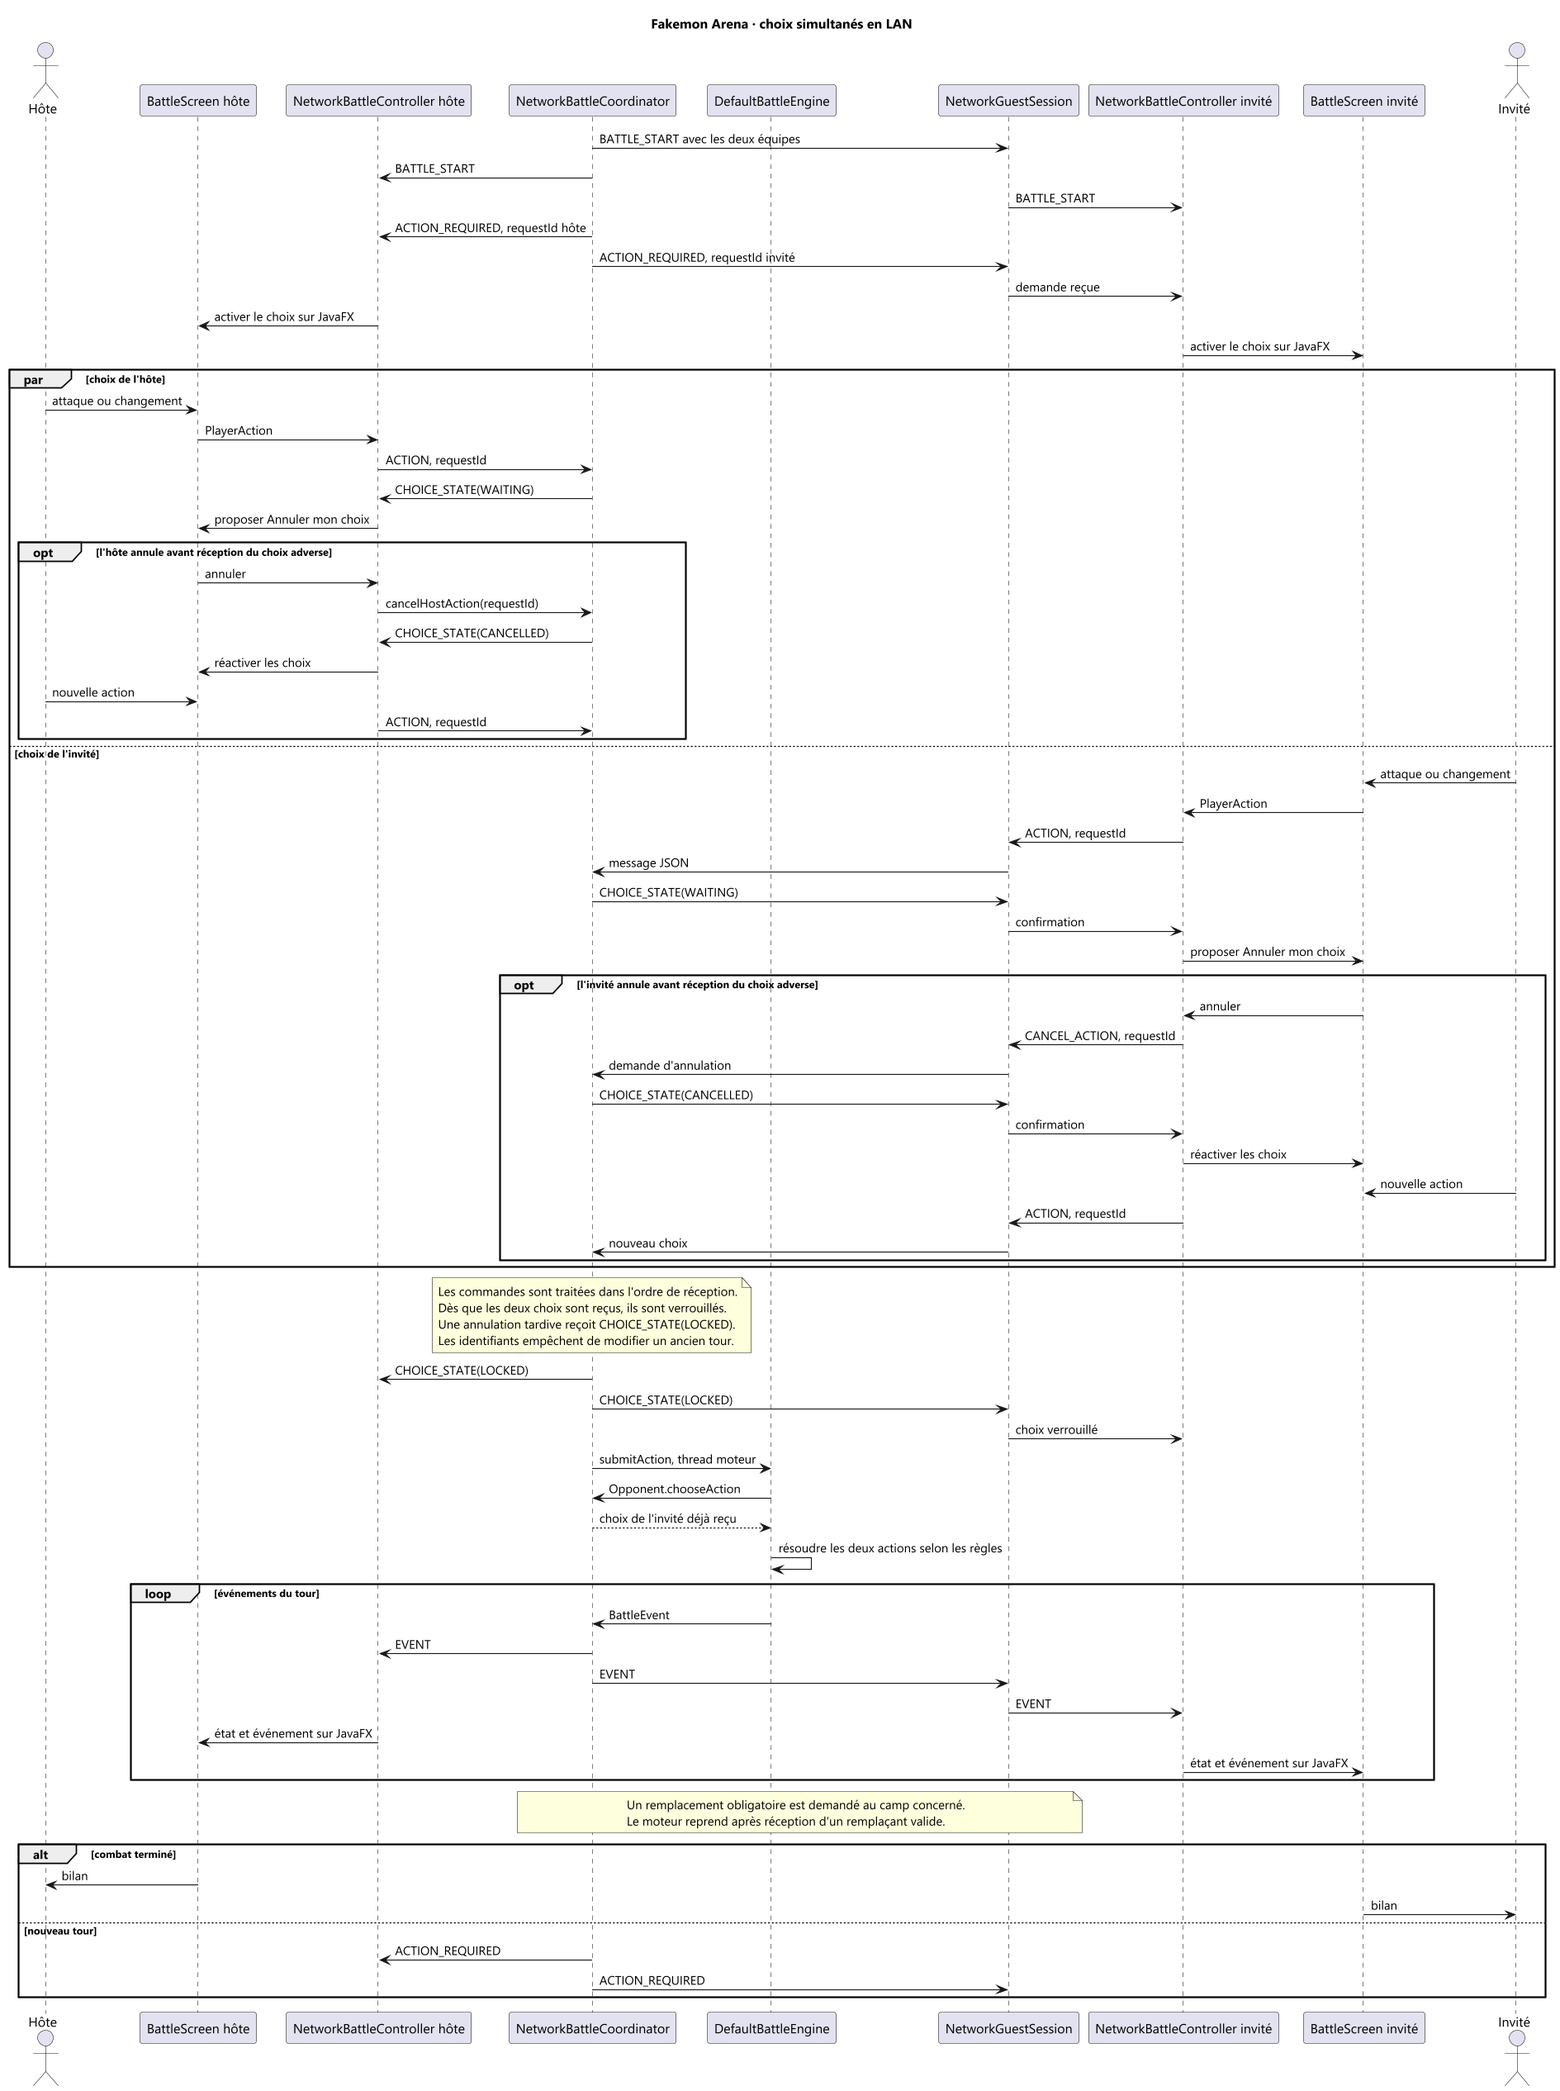
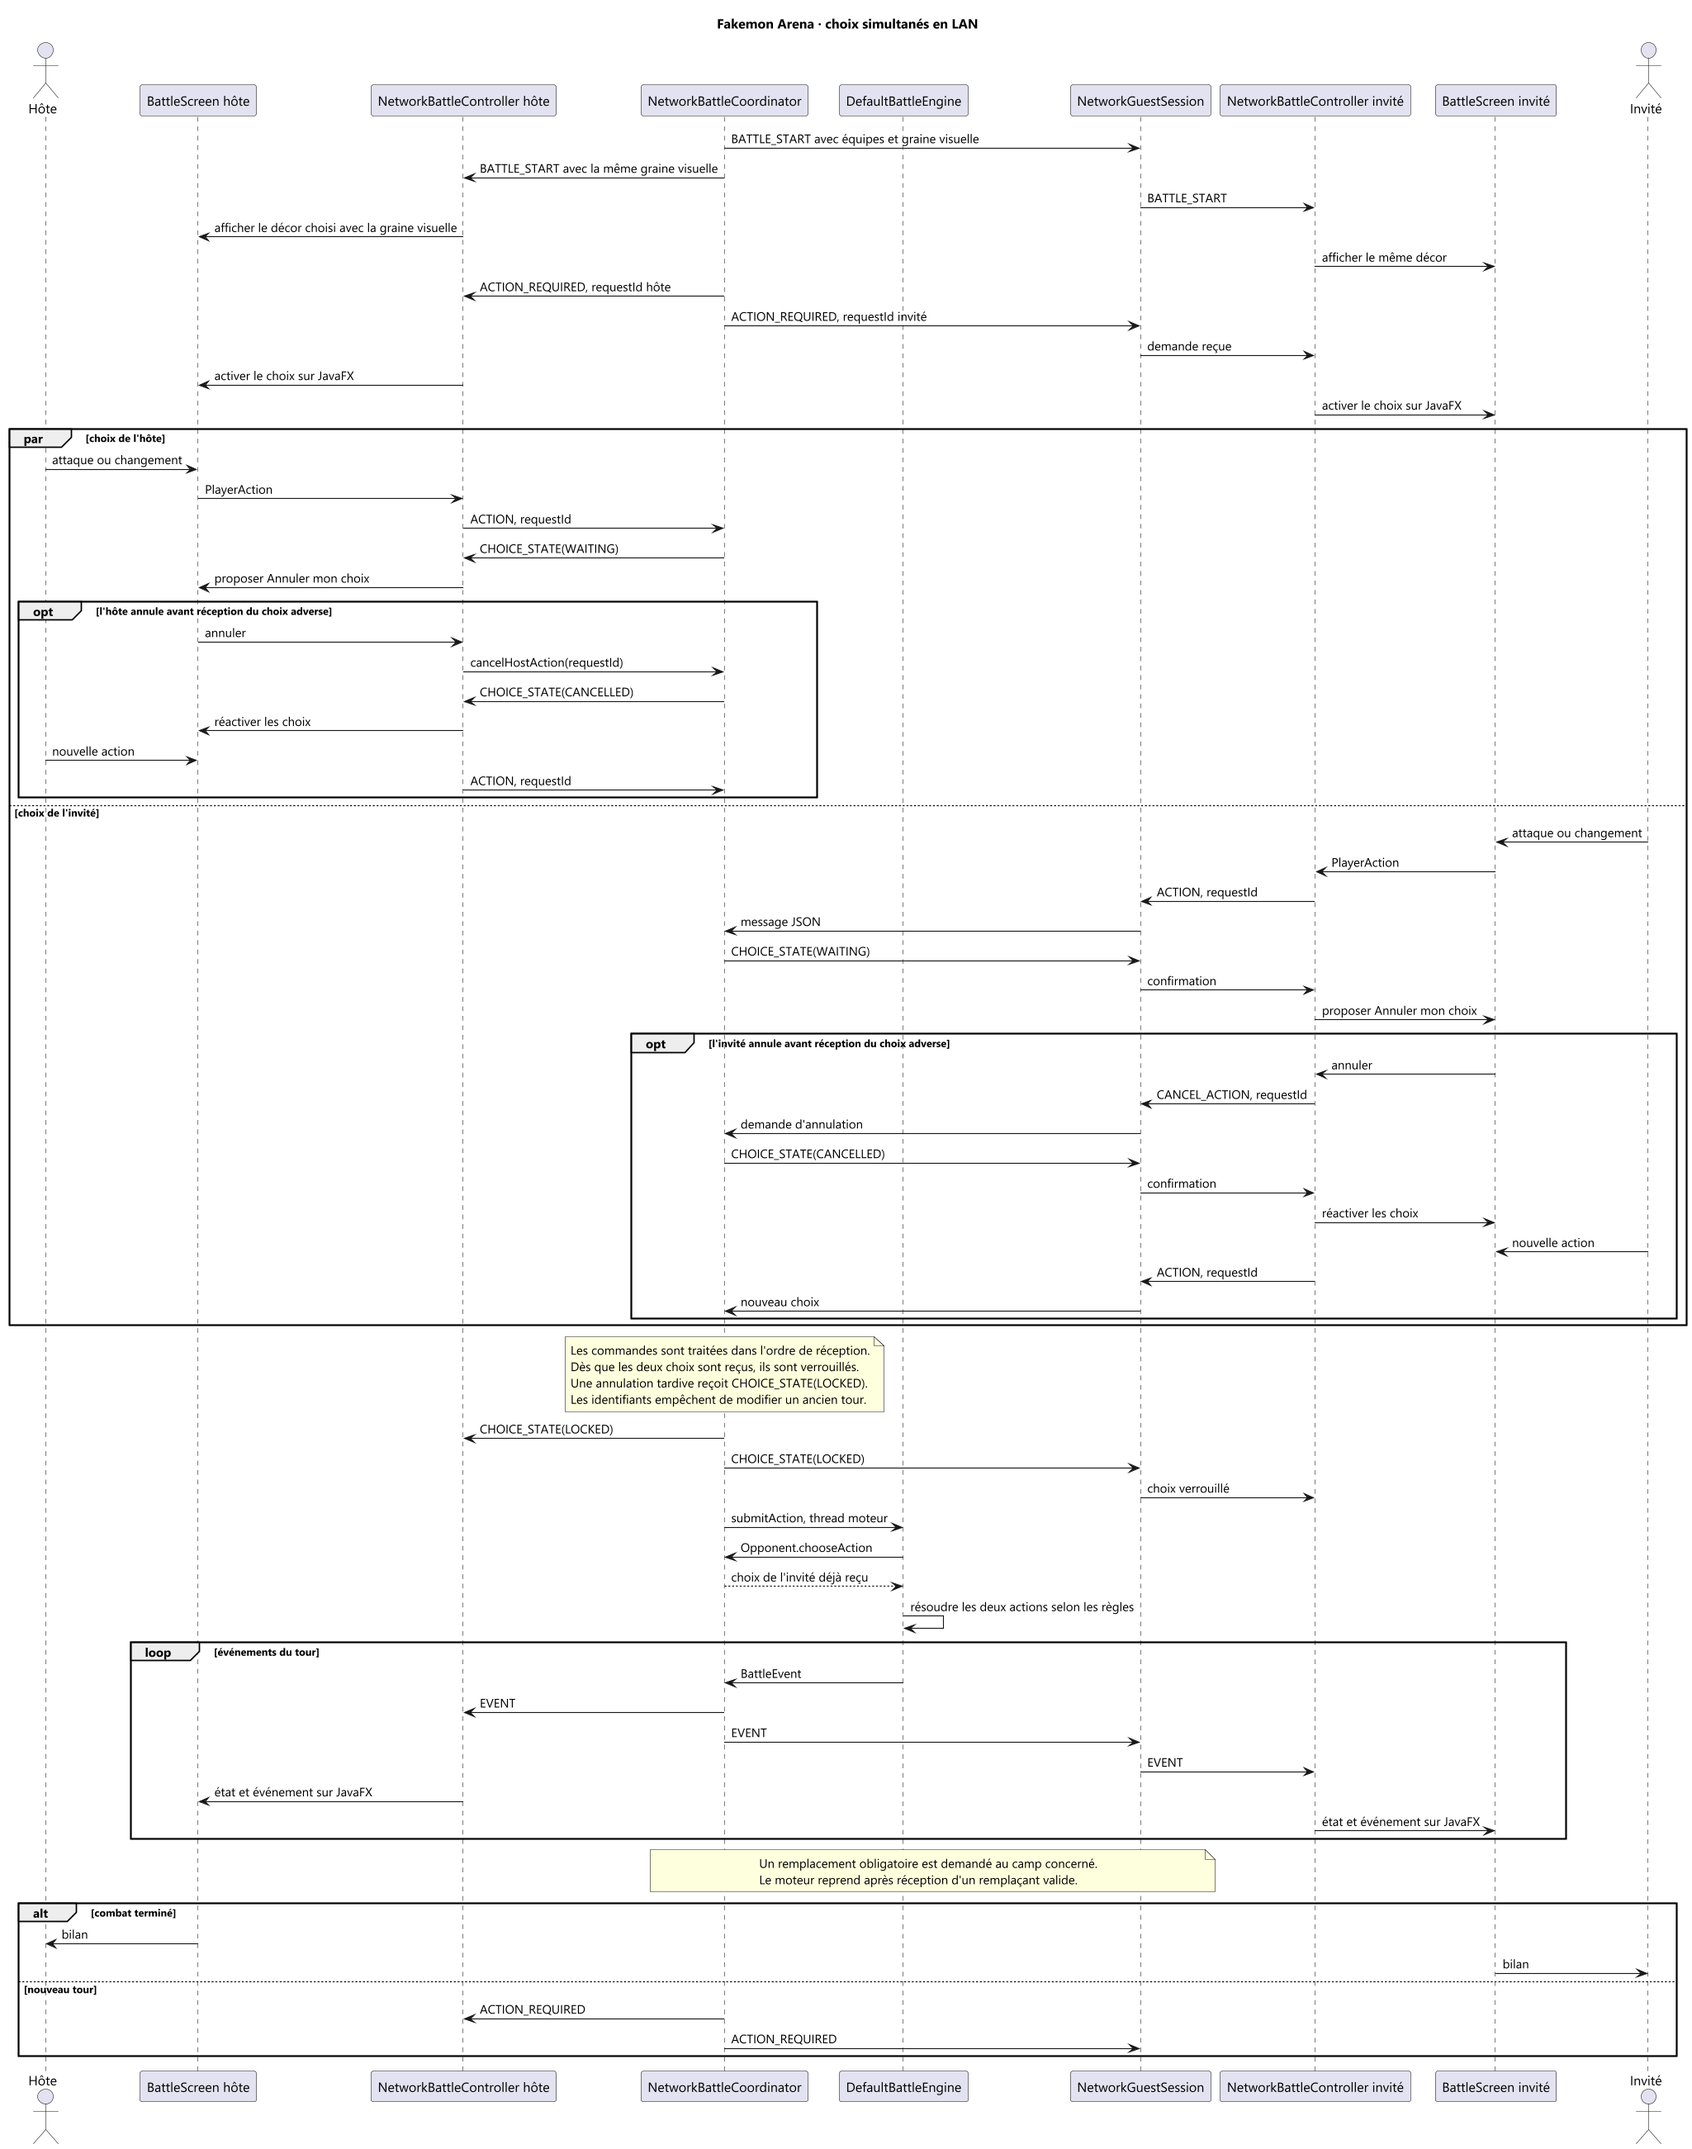
feat: intègre les décors variés aux combats (#72) (#86)
Refs #72

Ajoute quatre paysages au décor d’origine. Le paysage est choisi au
début du combat et reste affiché pendant toute la partie. En LAN, les
deux joueurs voient le même décor.

Les tests couvrent le chargement des cinq paysages, la stabilité du
décor à l’écran et la synchronisation en LAN.

diff --git a/src/main/java/fr/epitech/fakemon/ui/BattleScreen.java b/src/main/java/fr/epitech/fakemon/ui/BattleScreen.java
@@ -1,5 +1,8 @@
 package fr.epitech.fakemon.ui;
 
+import java.net.URL;
+import java.util.concurrent.ThreadLocalRandom;
+
 import fr.epitech.fakemon.core.api.BattleEndedEvent;
 import fr.epitech.fakemon.core.api.BattleEngine;
 import fr.epitech.fakemon.core.api.BattleEvent;
@@ -101,9 +104,9 @@ public final class BattleScreen extends BorderPane implements BattleListener {
         this.menu = menu;
         music = new BattleMusic(scenes.musicVolumePercent());
         setPadding(new Insets(12));
-        var background = BattleScreen.class.getResource("/backgrounds/battle-grassland.png");
-        arena.setStyle("-fx-background-image: url('" + background.toExternalForm()
-                + "'); -fx-background-size: cover; -fx-background-position: center;");
+        if (network == null) {
+            setArenaBackground(BattleAssets.randomBackground(ThreadLocalRandom.current()));
+        }
         setFocusTraversable(true);
         MenuSounds.action(pauseButton, MenuSounds.Sound.OPEN);
         MenuSounds.action(teamButton, MenuSounds.Sound.OPEN);
@@ -171,6 +174,11 @@ public final class BattleScreen extends BorderPane implements BattleListener {
             network.start(this::onEvent, this::networkChoiceRequired, this::networkChoiceStateChanged,
                     this::networkFailure);
         }
+    }
+
+    private void setArenaBackground(URL background) {
+        arena.setStyle("-fx-background-image: url('" + background.toExternalForm()
+                + "'); -fx-background-size: cover; -fx-background-position: center;");
     }
 
     private BattleState state() {
@@ -290,6 +298,9 @@ public final class BattleScreen extends BorderPane implements BattleListener {
     public void onEvent(BattleEvent event) {
         if (closed) {
             return;
+        }
+        if (network != null && arena.getStyle().isEmpty()) {
+            setArenaBackground(network.getBackground());
         }
         if (event instanceof FakemonEnteredEvent entered) {
             Fakemon mon = entered.getFakemon();

diff --git a/src/main/java/fr/epitech/fakemon/ui/NetworkBattleController.java b/src/main/java/fr/epitech/fakemon/ui/NetworkBattleController.java
@@ -17,8 +17,10 @@ import fr.epitech.fakemon.net.NetworkTeamCodec;
 import fr.epitech.fakemon.data.JsonSpeciesRepository;
 import fr.epitech.fakemon.data.SpeciesFactory;
 import java.io.IOException;
+import java.net.URL;
 import java.util.Random;
 import java.util.concurrent.CompletableFuture;
+import java.util.concurrent.ThreadLocalRandom;
 import java.util.function.Consumer;
 import javafx.application.Platform;
 
@@ -28,6 +30,7 @@ final class NetworkBattleController implements AutoCloseable {
     private final NetworkGuestSession guest;
     private final Side localSide;
     private NetworkBattleState state;
+    private URL background;
     private NetworkEventCodec events;
     private Consumer<BattleEvent> onEvent;
     private Consumer<Boolean> onChoice;
@@ -68,6 +71,11 @@ final class NetworkBattleController implements AutoCloseable {
 
     BattleState getState() {
         return state;
+    }
+
+    /** Donne le décor choisi à partir de la graine visuelle partagée par l'hôte. */
+    URL getBackground() {
+        return background;
     }
 
     /** Rouvre la préparation avec le même adversaire lorsque l'ancien lecteur a libéré la connexion. */
@@ -163,6 +171,9 @@ final class NetworkBattleController implements AutoCloseable {
                 if (state != null) {
                     throw new IllegalStateException("Le combat a déjà été initialisé.");
                 }
+                var seed = message.getPayload().get("visualSeed");
+                background = BattleAssets.randomBackground(seed == null
+                        ? ThreadLocalRandom.current() : new Random(seed.getAsLong()));
                 NetworkTeamCodec teams = new NetworkTeamCodec();
                 var hostTeam = teams.decode(new NetworkMessage("TEAM",
                         message.getPayload().getAsJsonObject("hostTeam")));

diff --git a/src/main/java/fr/epitech/fakemon/ui/BattleAssets.java b/src/main/java/fr/epitech/fakemon/ui/BattleAssets.java
@@ -1,14 +1,36 @@
 package fr.epitech.fakemon.ui;
 
+import java.net.URL;
 import java.nio.file.Path;
+import java.util.List;
+import java.util.Objects;
+import java.util.random.RandomGenerator;
 
 import fr.epitech.fakemon.core.model.Species;
 import javafx.scene.image.Image;
 import javafx.scene.image.ImageView;
 
-/** Charge les sprites du catalogue embarqué ou du dossier utilisateur. */
+/** Résout les décors et les médias du catalogue embarqué ou du dossier utilisateur. */
 final class BattleAssets {
+    private static final List<String> BACKGROUNDS = List.of(
+            "/backgrounds/battle-grassland.png",
+            "/backgrounds/battle-forest.png",
+            "/backgrounds/battle-beach.png",
+            "/backgrounds/battle-desert.png",
+            "/backgrounds/battle-snow.png");
+
     private BattleAssets() {}
+
+    /**
+     * Tire un décor parmi les cinq paysages embarqués, une fois au début du combat.
+     *
+     * @param random source de hasard visuel, distincte de celle du moteur
+     * @return l'adresse du décor choisi dans les ressources du jeu
+     */
+    static URL randomBackground(RandomGenerator random) {
+        String path = BACKGROUNDS.get(random.nextInt(BACKGROUNDS.size()));
+        return Objects.requireNonNull(BattleAssets.class.getResource(path), "Décor absent : " + path);
+    }
 
     static Path userFolder() {
         return Path.of(System.getProperty("user.home"), ".fakemon-arena");

diff --git a/src/main/java/fr/epitech/fakemon/net/NetworkBattleCoordinator.java b/src/main/java/fr/epitech/fakemon/net/NetworkBattleCoordinator.java
@@ -25,6 +25,7 @@ import java.util.concurrent.CompletableFuture;
 import java.util.concurrent.ExecutorService;
 import java.util.concurrent.Executors;
 import java.util.concurrent.RejectedExecutionException;
+import java.util.concurrent.ThreadLocalRandom;
 import java.util.concurrent.atomic.AtomicBoolean;
 import java.util.concurrent.atomic.AtomicLong;
 import java.util.function.Consumer;
@@ -128,7 +129,7 @@ public final class NetworkBattleCoordinator implements AutoCloseable {
         return released.copy();
     }
 
-    /** Envoie les équipes initiales, démarre le moteur et lance la lecture des réponses. */
+    /** Envoie les équipes et une graine visuelle indépendante, puis démarre le moteur et la lecture des réponses. */
     public void start() {
         if (closed.get() || !started.compareAndSet(false, true)) {
             throw new IllegalStateException("Le combat est déjà démarré ou fermé.");
@@ -141,6 +142,7 @@ public final class NetworkBattleCoordinator implements AutoCloseable {
                 payload.add("hostTeam", teams.encode(hostTeam).getPayload());
                 payload.add("guestTeam", teams.encode(guestTeam).getPayload());
                 payload.addProperty("mode", mode.name());
+                payload.addProperty("visualSeed", ThreadLocalRandom.current().nextLong());
                 synchronized (publishing) {
                     if (closed.get()) {
                         return;

diff --git a/src/test/java/fr/epitech/fakemon/ui/BattleAssetsTest.java b/src/test/java/fr/epitech/fakemon/ui/BattleAssetsTest.java
@@ -8,12 +8,36 @@ import static org.junit.jupiter.api.Assertions.assertTrue;
 import java.net.URI;
 import java.nio.file.Files;
 import java.nio.file.Path;
+import java.util.List;
+import java.util.Random;
+import javax.imageio.ImageIO;
 import org.junit.jupiter.api.Test;
 import org.junit.jupiter.api.io.TempDir;
 
 /** Vérifie la résolution des médias intégrés et des médias propres à l'utilisateur. */
 class BattleAssetsTest {
     @TempDir Path folder;
+
+    @Test
+    void allFiveBackgroundsCanBeDrawnAndLoadedAsImages() throws Exception {
+        List<String> expected = List.of("grassland", "forest", "beach", "desert", "snow");
+        Random choices = new Random(0) {
+            private int next;
+
+            @Override
+            public int nextInt(int bound) {
+                assertEquals(expected.size(), bound);
+                return next++;
+            }
+        };
+        for (String name : expected) {
+            var chosen = BattleAssets.randomBackground(choices);
+            assertEquals(BattleAssets.class.getResource("/backgrounds/battle-" + name + ".png"), chosen);
+            var image = ImageIO.read(chosen);
+            assertNotNull(image);
+            assertTrue(image.getWidth() > image.getHeight());
+        }
+    }
 
     @Test
     void resolvesBundledResourcesWithOrWithoutAnInitialSlash() {

diff --git a/src/test/java/fr/epitech/fakemon/net/NetworkBattleCoordinatorTest.java b/src/test/java/fr/epitech/fakemon/net/NetworkBattleCoordinatorTest.java
@@ -42,6 +42,21 @@ import org.junit.jupiter.params.provider.EnumSource;
 class NetworkBattleCoordinatorTest {
     @ParameterizedTest
     @EnumSource(BattleMode.class)
+    void bothPlayersReceiveTheSameVisualSeedAtTheStartOfTheBattle(BattleMode mode) throws Exception {
+        try (Session session = new Session(mode)) {
+            session.coordinator.start();
+            NetworkMessage hostStart = session.hostMessage();
+            NetworkMessage guestStart = session.remote.receive();
+            assertEquals("BATTLE_START", hostStart.getType());
+            assertEquals("BATTLE_START", guestStart.getType());
+            assertNotNull(hostStart.getPayload().get("visualSeed"));
+            assertEquals(hostStart.getPayload().get("visualSeed").getAsLong(),
+                    guestStart.getPayload().get("visualSeed").getAsLong());
+        }
+    }
+
+    @ParameterizedTest
+    @EnumSource(BattleMode.class)
     void aFullBattleCanBeFollowedByPreparationAndAnotherBattleOnTheSameConnection(BattleMode mode) throws Exception {
         try (Session session = new Session(mode, true);
                 NetworkGuestSession firstGuest = automaticGuest(session.remote, session.failures, true)) {

diff --git a/src/test/java/fr/epitech/fakemon/ui/BattleBadgesUiTest.java b/src/test/java/fr/epitech/fakemon/ui/BattleBadgesUiTest.java
@@ -58,6 +58,9 @@ class BattleBadgesUiTest {
                     assertEquals(88, button.getHeight(), .001);
                     assertTrue(button.getStyle().contains(TypeBadges.colorCss(move.getType())));
                 }
+                var arena = screen.getCenter();
+                String backgroundStyle = arena.getStyle();
+                assertTrue(backgroundStyle.contains("/backgrounds/battle-"));
                 var render = BattleScreen.class.getDeclaredMethod("render", BattleEvent.class);
                 render.setAccessible(true);
                 for (Item item : Item.values()) {
@@ -81,6 +84,7 @@ class BattleBadgesUiTest {
                 idle.invoke(screen);
                 assertFalse(screen.lookup("#player-activation").isVisible());
                 assertFalse(screen.lookup("#opponent-activation").isVisible());
+                assertEquals(backgroundStyle, arena.getStyle());
             } finally {
                 scenes.show(new StackPane());
             }
